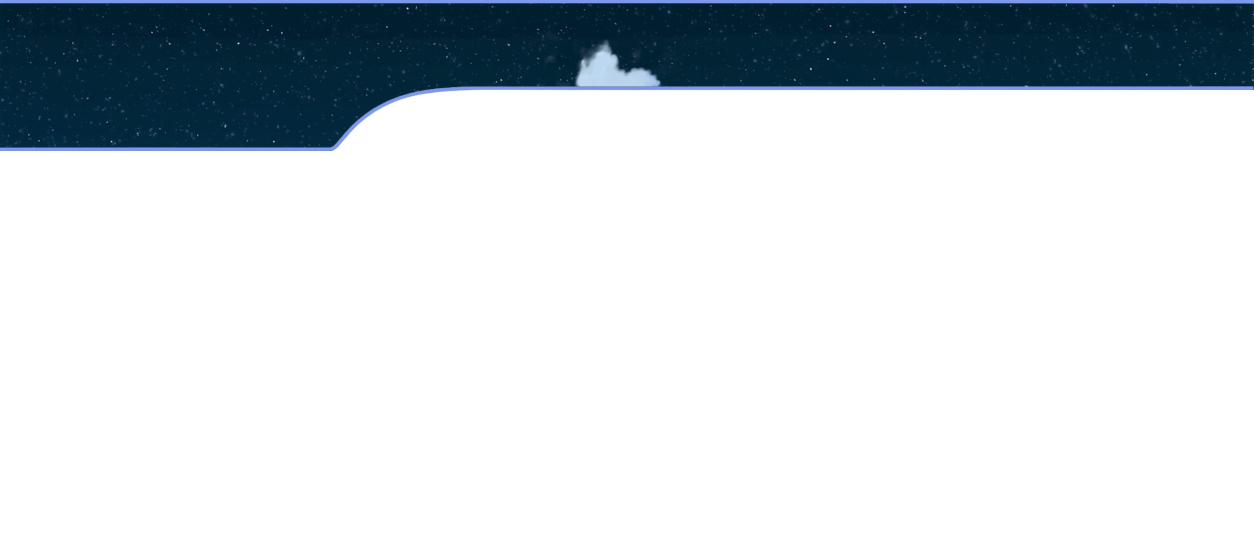
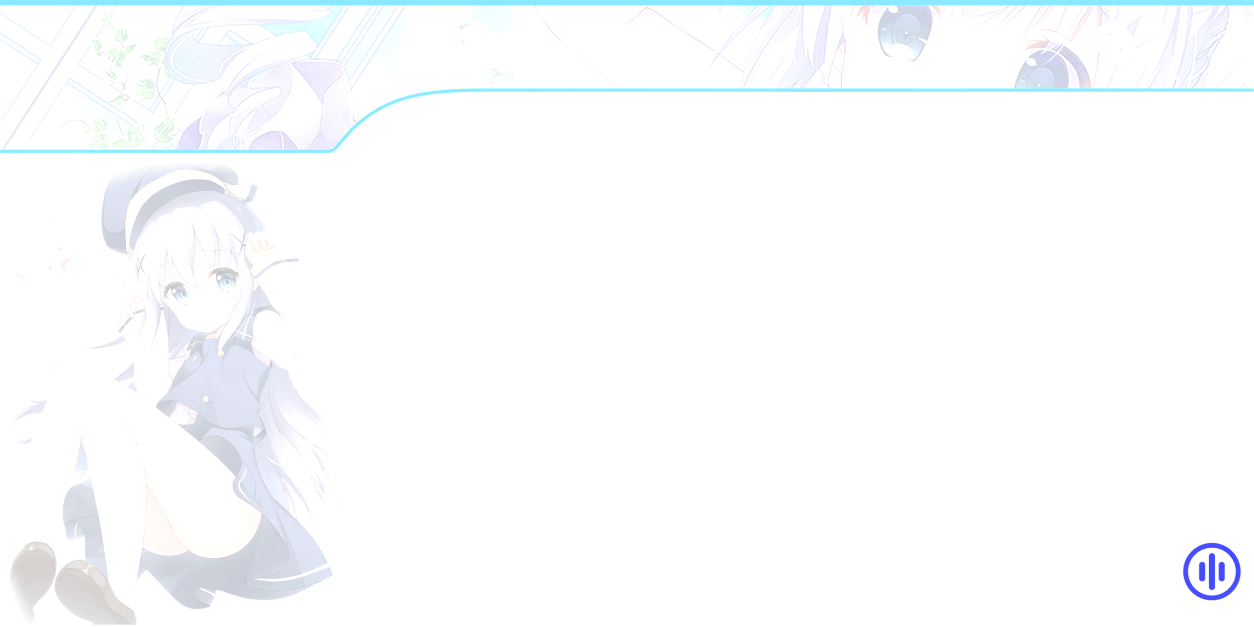
changed osu skin uwu

Changed region(s): [[0.0, 0.0, 1.0, 0.3996], [0.0, 0.4304, 0.2799, 1.0], [0.933, 0.8608, 0.9952, 0.953]]

diff --git a/scuffed-osu/src/view/SongSelectUI.java b/scuffed-osu/src/view/SongSelectUI.java
@@ -37,8 +37,8 @@ public class SongSelectUI extends JFrame{
 		
 		BasicPlayer player = new BasicPlayer(); //creating music/sound player object
 		
-		java.awt.Image image0 = new ImageIcon("images/ssbtn_hoverOFF.png").getImage(); 	//creating original and alt image object to display between mouse hovering on or off button
-		java.awt.Image image1 = new ImageIcon("images/ssbtn_hoverON.png").getImage(); 
+		java.awt.Image image0 = new ImageIcon("images/ssbtn_hoverOFF1.png").getImage(); 	//creating original and alt image object to display between mouse hovering on or off button
+		java.awt.Image image1 = new ImageIcon("images/ssbtn_hoverON1.png").getImage(); 
 		
 		//song header on interface top panel
 		JLabel lblgetSongName = new JLabel("(get song info)");
@@ -89,20 +89,6 @@ public class SongSelectUI extends JFrame{
 		lblscore5.setFont(new Font("Tahoma", Font.PLAIN, 22));
 		lblscore5.setBounds(38, 343, 530, 46);
 		panel.add(lblscore5);
-	
-		//interface bottom panel
-		JLabel menuBg1 = new JLabel("");
-		java.awt.Image image_bgbot = new ImageIcon("images/ssi_bot.png").getImage(); //osu skin: Cookiezi 29 2018-03-18
-		menuBg1.setIcon(new ImageIcon(image_bgbot));
-		menuBg1.setBounds(0, 0, 1331, 772);
-		panel.add(menuBg1);
-		
-		//interface top panel
-		JLabel menuBg2 = new JLabel("");
-		java.awt.Image image_bgtop = new ImageIcon("images/ssi_top1.png").getImage(); 
-		menuBg2.setIcon(new ImageIcon(image_bgtop));
-		menuBg2.setBounds(0, 0, 1294, 552);
-		panel.add(menuBg2);
 		
 		//label song 1
 		JLabel lblSong1 = new JLabel("(get song info)");
@@ -173,8 +159,21 @@ public class SongSelectUI extends JFrame{
 		});
 		MouseStatus.state(panel, menuBg, btnSong3, image0, image1, 3, player, 4); //check MouseStatus class in control package for comments of this method
 		
+		//interface bottom panel
+		JLabel menuBg1 = new JLabel("");
+		java.awt.Image image_bgbot = new ImageIcon("images/ssi_bot1.png").getImage(); //osu skin: Cookiezi 29 2018-03-18
+		menuBg1.setIcon(new ImageIcon(image_bgbot));
+		menuBg1.setBounds(0, 0, 1331, 772);
+		panel.add(menuBg1);
+		
+		//interface top panel
+		JLabel menuBg2 = new JLabel("");
+		java.awt.Image image_bgtop = new ImageIcon("images/ssi_top.png").getImage(); 
+		menuBg2.setIcon(new ImageIcon(image_bgtop));
+		menuBg2.setBounds(0, 0, 1294, 552);
+		panel.add(menuBg2);
 	
-		setSSBg(panel, menuBg, "images/bg1.jpg"); //sets default background
+		setSSBg(panel, menuBg, "images/ssbg1.png"); //sets default background
 	}
 	
 	//method for setting background according to song cover/no song cover

diff --git a/scuffed-osu/src/control/MouseStatus.java b/scuffed-osu/src/control/MouseStatus.java
@@ -46,7 +46,7 @@ public class MouseStatus {
 			
 			public void mouseExited(MouseEvent e) {
 				btnSong.setIcon(new ImageIcon(image0));
-				SongSelectUI.setSSBg(panel, menuBg, BackgroundList.getBg(0)); //check SongSelectUI class in view package for comments of this method
+				SongSelectUI.setSSBg(panel, menuBg, BackgroundList.getBg(4)); //check SongSelectUI class in view package for comments of this method
 				AudioStatus.songStop(player); //check AudioStatus class in control package for comments of this method
 			}
 		});

diff --git a/scuffed-osu/src/model/BackgroundList.java b/scuffed-osu/src/model/BackgroundList.java
@@ -12,6 +12,7 @@ public class BackgroundList {
 		bg_images.add("images/song1Bg.png");
 		bg_images.add("images/song2Bg.png");
 		bg_images.add("images/song3Bg.png");
+		bg_images.add("images/ssbg1.png");
 	
 		return bg_images.get(i);
 	}
